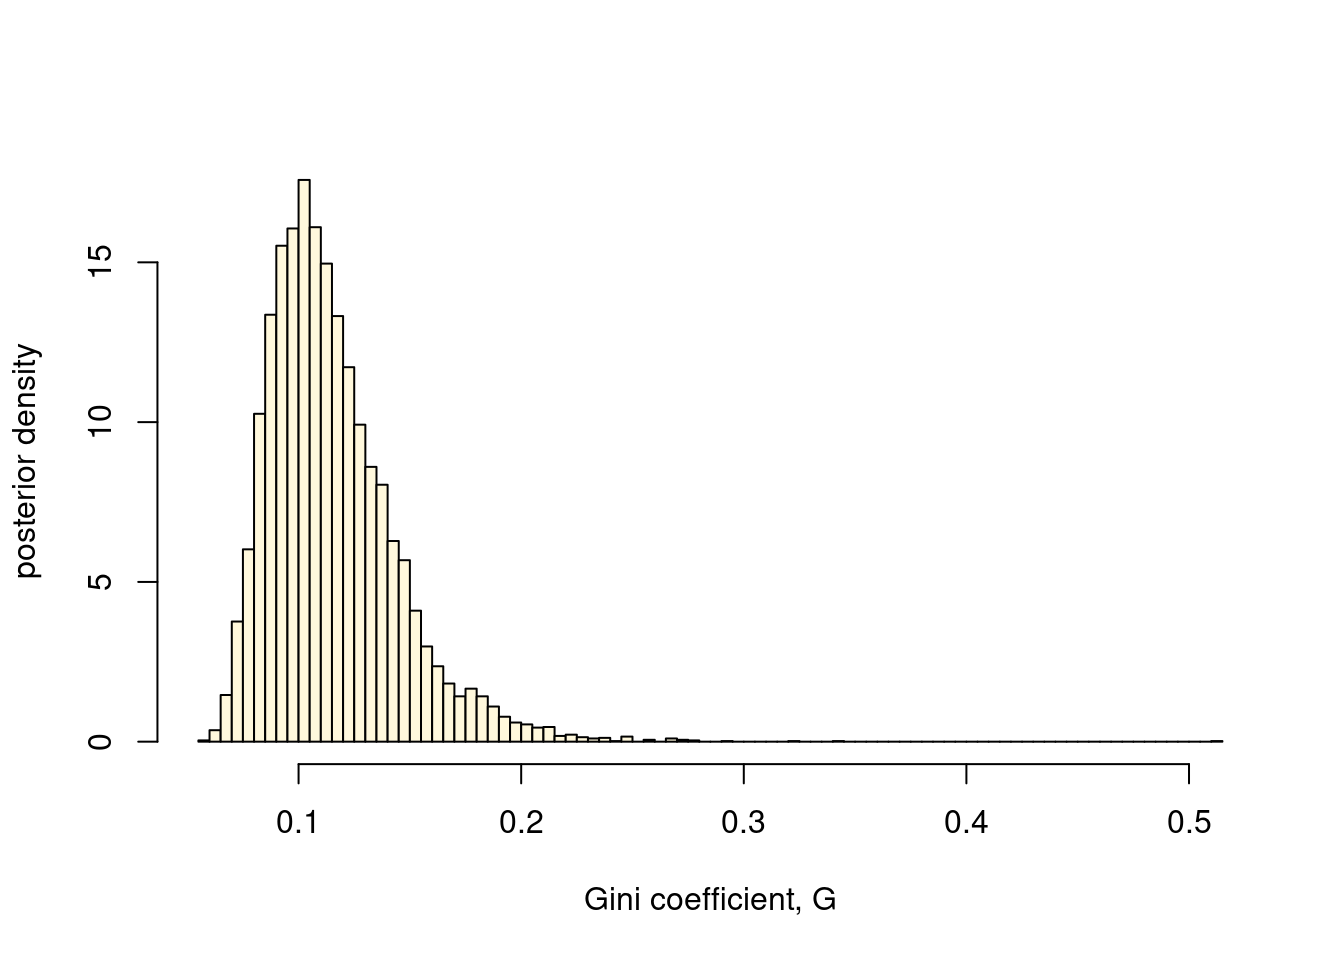
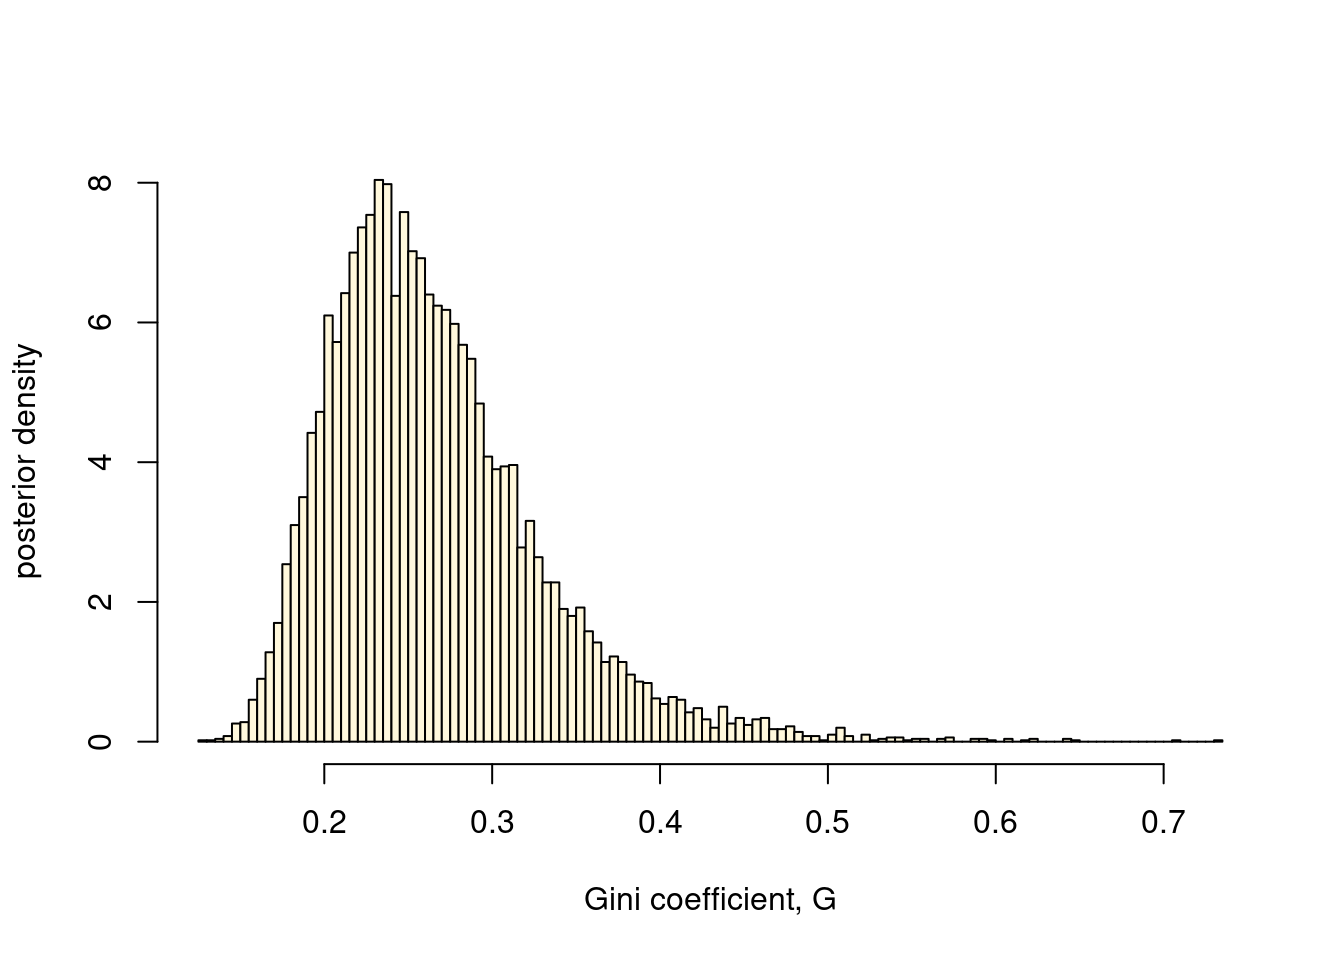
fixed typo gini solution

diff --git a/docs/exercises/ch3/gini.html b/docs/exercises/ch3/gini.html
@@ -377,7 +377,7 @@ window.Quarto = {
     \tau^{2}=\frac{\sum_{i=1}^{n}(\log y_{i}-\theta)^{2}}{n}.
   \end{equation*}\]</span></p>
 <p><strong>a)</strong></p>
-<p>Simulate <span class="math inline">\(10,000\)</span> draws from the posterior of <span class="math inline">\(\sigma^{2}\)</span>, as assuming <span class="math inline">\(\theta=\log(33)\)</span> is known. Plot a histogram of the posterior draws of the standard deviation <span class="math inline">\(\sigma\)</span>.</p>
+<p>Simulate <span class="math inline">\(10,000\)</span> draws from the posterior of <span class="math inline">\(\sigma^{2}\)</span>, assuming <span class="math inline">\(\theta=\log(33)\)</span> is known. Plot a histogram of the posterior draws of the <span class="math inline">\(\sigma\)</span>.</p>
 <div id="q:gini_a" class="callout callout-style-default callout-note no-icon callout-titled">
 <div class="callout-header d-flex align-content-center" data-bs-toggle="collapse" data-bs-target=".callout-1-contents" aria-controls="callout-1" aria-expanded="false" aria-label="Toggle callout">
 <div class="callout-icon-container">
@@ -395,7 +395,7 @@ Solution
 <span id="cb1-2"><a href="#cb1-2" aria-hidden="true" tabindex="-1"></a>logy <span class="ot">=</span> <span class="fu">log</span>(y)</span>
 <span id="cb1-3"><a href="#cb1-3" aria-hidden="true" tabindex="-1"></a>n <span class="ot">=</span> <span class="fu">length</span>(y)</span>
 <span id="cb1-4"><a href="#cb1-4" aria-hidden="true" tabindex="-1"></a>theta <span class="ot">=</span> <span class="fu">log</span>(<span class="dv">33</span>)</span>
-<span id="cb1-5"><a href="#cb1-5" aria-hidden="true" tabindex="-1"></a>tau2 <span class="ot">=</span> <span class="fu">sum</span>(logy <span class="sc">-</span> theta)<span class="sc">^</span><span class="dv">2</span><span class="sc">/</span>n</span>
+<span id="cb1-5"><a href="#cb1-5" aria-hidden="true" tabindex="-1"></a>tau2 <span class="ot">=</span> <span class="fu">sum</span>((logy <span class="sc">-</span> theta)<span class="sc">^</span><span class="dv">2</span>)<span class="sc">/</span>n</span>
 <span id="cb1-6"><a href="#cb1-6" aria-hidden="true" tabindex="-1"></a></span>
 <span id="cb1-7"><a href="#cb1-7" aria-hidden="true" tabindex="-1"></a><span class="co"># Defining a function that simulates nSim draws</span></span>
 <span id="cb1-8"><a href="#cb1-8" aria-hidden="true" tabindex="-1"></a><span class="co"># from the scaled inverse Chi-square distribution</span></span>
@@ -450,7 +450,7 @@ Solution
 </div>
 </div>
 <p><strong>c)</strong></p>
-<p>Compute a <span class="math inline">\(95\)</span>% Highest Posterior Density (HPD) interval for <span class="math inline">\(G\)</span>. To compute the HPD interval you will need an estimate of the posterior density for <span class="math inline">\(G\)</span>; a common approach is to use a kernel density estimator, for example the function in R.</p>
+<p>Compute a <span class="math inline">\(95\)</span>% Highest Posterior Density (HPD) interval for <span class="math inline">\(G\)</span>. To compute the HPD interval you will need an estimate of the posterior density for <span class="math inline">\(G\)</span>; a common approach is to use a kernel density estimator, for example the <code>density</code> function in R.</p>
 <div id="q:gini_c" class="callout callout-style-default callout-note no-icon callout-titled">
 <div class="callout-header d-flex align-content-center" data-bs-toggle="collapse" data-bs-target=".callout-3-contents" aria-controls="callout-3" aria-expanded="false" aria-label="Toggle callout">
 <div class="callout-icon-container">
@@ -491,7 +491,7 @@ Solution
 <span id="cb4-8"><a href="#cb4-8" aria-hidden="true" tabindex="-1"></a>hpd <span class="ot">=</span> <span class="fu">c</span>(<span class="fu">min</span>(giniOrdered[inHPD]), <span class="fu">max</span>(giniOrdered[inHPD]))</span>
 <span id="cb4-9"><a href="#cb4-9" aria-hidden="true" tabindex="-1"></a><span class="fu">message</span>(<span class="fu">paste0</span>(<span class="st">"The 95% HPD interval for the Gini coefficient is ("</span>, hpd[<span class="dv">1</span>], <span class="st">","</span>, hpd[<span class="dv">2</span>],<span class="st">")"</span>))</span></code><button title="Copy to Clipboard" class="code-copy-button"><i class="bi"></i></button></pre></div>
 <div class="cell-output cell-output-stderr">
-<pre><code>The 95% HPD interval for the Gini coefficient is (0.0674813181996768,0.171365459222317)</code></pre>
+<pre><code>The 95% HPD interval for the Gini coefficient is (0.159352234843879,0.394917196471723)</code></pre>
 </div>
 </div>
 </div>

diff --git a/docs/exercises/ch3solutions.html b/docs/exercises/ch3solutions.html
@@ -629,7 +629,7 @@ Solution
 <span id="cb7-5"><a href="#cb7-5" aria-hidden="true" tabindex="-1"></a>  bothPartyInParliament[i] <span class="ot">=</span> <span class="fu">all</span>(postDraws[i,<span class="fu">c</span>(<span class="dv">2</span>,<span class="dv">4</span>)] <span class="sc">&lt;</span> <span class="fl">0.04</span>)</span>
 <span id="cb7-6"><a href="#cb7-6" aria-hidden="true" tabindex="-1"></a>}</span></code><button title="Copy to Clipboard" class="code-copy-button"><i class="bi"></i></button></pre></div>
 </div>
-<p>The posterior probability that both parties are below <span class="math inline">\(4\%\)</span> is 0.428.</p>
+<p>The posterior probability that both parties are below <span class="math inline">\(4\%\)</span> is 0.4214.</p>
 </div>
 </div>
 </div>
@@ -659,7 +659,7 @@ Solution
 <span id="cb8-2"><a href="#cb8-2" aria-hidden="true" tabindex="-1"></a>logy <span class="ot">=</span> <span class="fu">log</span>(y)</span>
 <span id="cb8-3"><a href="#cb8-3" aria-hidden="true" tabindex="-1"></a>n <span class="ot">=</span> <span class="fu">length</span>(y)</span>
 <span id="cb8-4"><a href="#cb8-4" aria-hidden="true" tabindex="-1"></a>theta <span class="ot">=</span> <span class="fu">log</span>(<span class="dv">33</span>)</span>
-<span id="cb8-5"><a href="#cb8-5" aria-hidden="true" tabindex="-1"></a>tau2 <span class="ot">=</span> <span class="fu">sum</span>(logy <span class="sc">-</span> theta)<span class="sc">^</span><span class="dv">2</span><span class="sc">/</span>n</span>
+<span id="cb8-5"><a href="#cb8-5" aria-hidden="true" tabindex="-1"></a>tau2 <span class="ot">=</span> <span class="fu">sum</span>((logy <span class="sc">-</span> theta)<span class="sc">^</span><span class="dv">2</span>)<span class="sc">/</span>n</span>
 <span id="cb8-6"><a href="#cb8-6" aria-hidden="true" tabindex="-1"></a></span>
 <span id="cb8-7"><a href="#cb8-7" aria-hidden="true" tabindex="-1"></a><span class="co"># Defining a function that simulates nSim draws</span></span>
 <span id="cb8-8"><a href="#cb8-8" aria-hidden="true" tabindex="-1"></a><span class="co"># from the scaled inverse Chi-square distribution</span></span>
@@ -755,7 +755,7 @@ Solution
 <span id="cb11-8"><a href="#cb11-8" aria-hidden="true" tabindex="-1"></a>hpd <span class="ot">=</span> <span class="fu">c</span>(<span class="fu">min</span>(giniOrdered[inHPD]), <span class="fu">max</span>(giniOrdered[inHPD]))</span>
 <span id="cb11-9"><a href="#cb11-9" aria-hidden="true" tabindex="-1"></a><span class="fu">message</span>(<span class="fu">paste0</span>(<span class="st">"The 95% HPD interval for the Gini coefficient is ("</span>, hpd[<span class="dv">1</span>], <span class="st">","</span>, hpd[<span class="dv">2</span>],<span class="st">")"</span>))</span></code><button title="Copy to Clipboard" class="code-copy-button"><i class="bi"></i></button></pre></div>
 <div class="cell-output cell-output-stderr">
-<pre><code>The 95% HPD interval for the Gini coefficient is (0.0677500326771769,0.17168505672965)</code></pre>
+<pre><code>The 95% HPD interval for the Gini coefficient is (0.16010534594887,0.390638675548585)</code></pre>
 </div>
 </div>
 </div>
